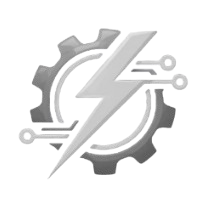
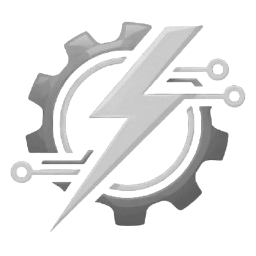
Refactor code structure for improved readability and maintainability

diff --git a/src/components/ui/faultCard.tsx b/src/components/ui/faultCard.tsx
@@ -2,27 +2,40 @@ import { View, Text, TouchableOpacity, StyleSheet } from 'react-native'
 import React from 'react'
 import { useTheme } from '@/src/context/ThemeContext';
 
-export default function FaultCard({ title, desc }: { title: string; desc: string }) {
+export default function FaultCard({id, title, desc }: { id: string,title: string; desc: string }) {
   const { theme } = useTheme();
 
   return (
-    <TouchableOpacity
-      activeOpacity={0.7}
-      style={[ styles.faultCard, { backgroundColor: theme.secondary_background, shadowColor: theme.text, borderColor: theme.toast_background }]}
-    >
-        <Text style={[styles.faultTitle, { color: theme.text }]}>
-            {title}
-        </Text>
-        <Text style={[styles.faultDesc, { color: theme.text }]}>
-            {desc}
-        </Text>
-    </TouchableOpacity>
+    <View>
+      <TouchableOpacity
+        activeOpacity={0.7}
+        style={[ styles.faultCard, { backgroundColor: theme.secondary_background, shadowColor: theme.text, borderColor: theme.toast_background }]}
+      >
+          <View style={styles.faultTitle}>
+              <View style={styles.number}>
+                <Text style={{color: "white"}}>{id}</Text>  
+              </View> 
+              
+              <Text style={{color: theme.text}} className='text-xl font-bold'>{title}</Text>
+          </View>
+
+          <Text style={[styles.faultDesc, { color: theme.text }]}>
+              {desc}
+          </Text>
+      </TouchableOpacity>
+
+      {(id === '1') && 
+        <View className='mb-5'>
+          <Text style={{color: theme.green_text}} className='text-center text-xl font-bold'>OR</Text>
+        </View>
+      }
+    </View>
   );
 }
 
 
 const styles = StyleSheet.create({
-    listContent: {
+  listContent: {
     paddingBottom: 40,
   },
   faultCard: {
@@ -41,6 +54,19 @@ const styles = StyleSheet.create({
     fontSize: 18,
     fontWeight: '700',
     marginBottom: 12,
+    display: "flex",
+    alignItems: "center",
+    flexDirection: "row",
+    gap: 10
+  },
+  number: {
+    backgroundColor: "green",
+    borderRadius: 50,
+    width: 28,
+    height: 28,
+    display: "flex",
+    justifyContent: "center",
+    alignItems: "center"
   },
   faultDesc: {
     fontSize: 15,

diff --git a/app/(tabs)/problemSolver.tsx b/app/(tabs)/problemSolver.tsx
@@ -17,7 +17,7 @@ const ScreenHeader = ({ searchQuery, setSearchQuery, theme, filteredComponents, 
 
       {/* Search Bar */}
       <View style={styles.searchContainer}>
-        <View style={[styles.searchSection, { borderColor: theme.text }]}>
+        <View style={[styles.searchSection, { borderColor: theme.icons }]}>
           <TextInput
             style={[styles.input, { color: theme.text }]}
             placeholder="Search components..."
@@ -26,7 +26,7 @@ const ScreenHeader = ({ searchQuery, setSearchQuery, theme, filteredComponents, 
             onChangeText={setSearchQuery} // Updates state without unmounting
             autoCapitalize="none"
           />
-          <View style={[styles.iconCircle, { backgroundColor: theme.text }]}>
+          <View style={[styles.iconCircle, { backgroundColor: theme.icons }]}>
             <Ionicons name="search" size={24} color={theme.background} />
           </View>
         </View>
@@ -76,8 +76,8 @@ const ScreenHeader = ({ searchQuery, setSearchQuery, theme, filteredComponents, 
             </TouchableOpacity>
           ))}
         </View>
-        <Text style={[styles.sectionTitle, { color: theme.red_button, marginTop: 40 }]}>
-          Common Faults
+        <Text style={[styles.sectionTitle, { color: theme.text, marginTop: 40 }]}>
+          Steps to Fix Fault
         </Text>
       </View>
     </View>
@@ -110,33 +110,23 @@ export default function problemSolver() {
     });
   };
 
-  const commonFaults = [
+  const fixingSteps = [
     {
       id: '1',
-      title: 'Overheating & Thermal Issues',
-      desc: 'Excessive temperature rise in equipment caused by overloading, poor ventilation, or cooling failure, which can damage insulation and reduce lifespan.',
+      title: 'Quick Search Path',
+      desc: 'Search in Topbar → Components Screen (with results) → Select Component → Fault Categories → Select Fault → Solution',
     },
     {
       id: '2',
-      title: 'Starting & Running Problems',
-      desc: 'Difficulties in starting or maintaining normal operation, often due to low voltage, faulty capacitors, or mechanical load issues.',
-    },
-    {
-      id: '3',
-      title: 'Mechanical & Vibration Issues',
-      desc: 'Physical faults like misalignment, worn bearings, or imbalance that cause vibration, noise, and possible mechanical damage.',
-    },
-    {
-      id: '4',
-      title: 'Protection & Tripping Problems',
-      desc: 'Frequent or unexpected shutdowns triggered by protective devices due to overloads, faults, or incorrect settings.',
+      title: 'Browse Path',
+      desc: 'Categories → Select Category → Select Component → Fault Categories → Select Fault → Solution',
     },
   ];
   
   return (
     <SafeAreaView edges={['top']} style={{ backgroundColor: theme.background, minHeight: "100%" }} className='px-4'>
       <FlatList
-          data={commonFaults}
+          data={fixingSteps}
           keyExtractor={(item) => item.id}
           showsVerticalScrollIndicator={false}
           ListHeaderComponent={
@@ -152,6 +142,7 @@ export default function problemSolver() {
           renderItem={({ item }) => 
               <FaultCard
                   key={item.id}
+                  id={item.id}
                   title={item.title}
                   desc={item.desc}
               />
@@ -173,9 +164,9 @@ const styles = StyleSheet.create({
     alignItems: 'center',
     borderWidth: 2,
     borderRadius: 12,
-    height: 52,
-    paddingLeft: 18,
-    paddingRight: 3,
+    height: 45,
+    paddingLeft: 10,
+    paddingRight: 2,
   },
   input: {
     flex: 1,
@@ -183,8 +174,8 @@ const styles = StyleSheet.create({
     fontWeight: '500',
   },
   iconCircle: {
-    width: 44,
-    height: 44,
+    width: 38,
+    height: 38,
     borderRadius: 10,
     justifyContent: 'center',
     alignItems: 'center',
@@ -268,3 +259,6 @@ const styles = StyleSheet.create({
     justifyContent: 'space-between',
   },
 });
+
+  git config --global user.email "[email redacted]"
+  git config --global user.name "mixro"

diff --git a/app/(tabs)/components.tsx b/app/(tabs)/components.tsx
@@ -13,7 +13,7 @@ const ScreenHeader = ({ searchQuery, setSearchQuery, theme, filteredComponents, 
     <View>
       {/* Search Bar */}
       <View style={styles.searchContainer}>
-        <View style={[styles.searchSection, { borderColor: theme.text }]}>
+        <View style={[styles.searchSection, { borderColor: theme.icons }]}>
           <TextInput
             style={[styles.input, { color: theme.text }]}
             placeholder="Search components..."
@@ -198,8 +198,8 @@ const styles = StyleSheet.create({
     alignItems: 'center',
     borderWidth: 2,
     borderRadius: 12,
-    height: 52,
-    paddingLeft: 18,
+    height: 45,
+    paddingLeft: 10,
     paddingRight: 3,
   },
   input: {
@@ -208,8 +208,8 @@ const styles = StyleSheet.create({
     fontWeight: '500',
   },
   iconCircle: {
-    width: 44,
-    height: 44,
+    width: 38,
+    height: 38,
     borderRadius: 10,
     justifyContent: 'center',
     alignItems: 'center',